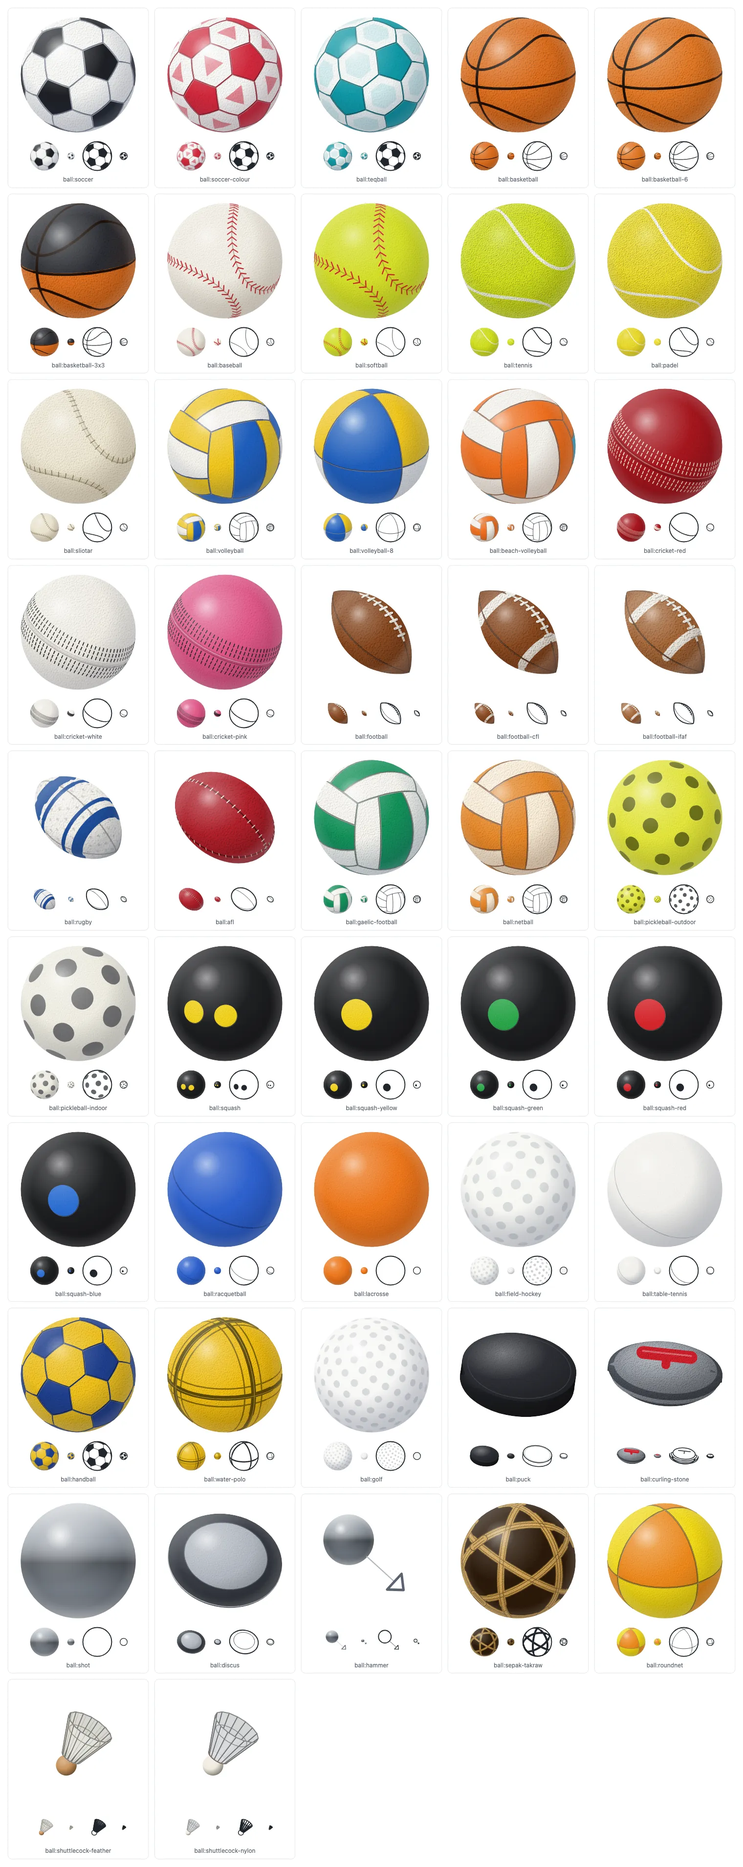
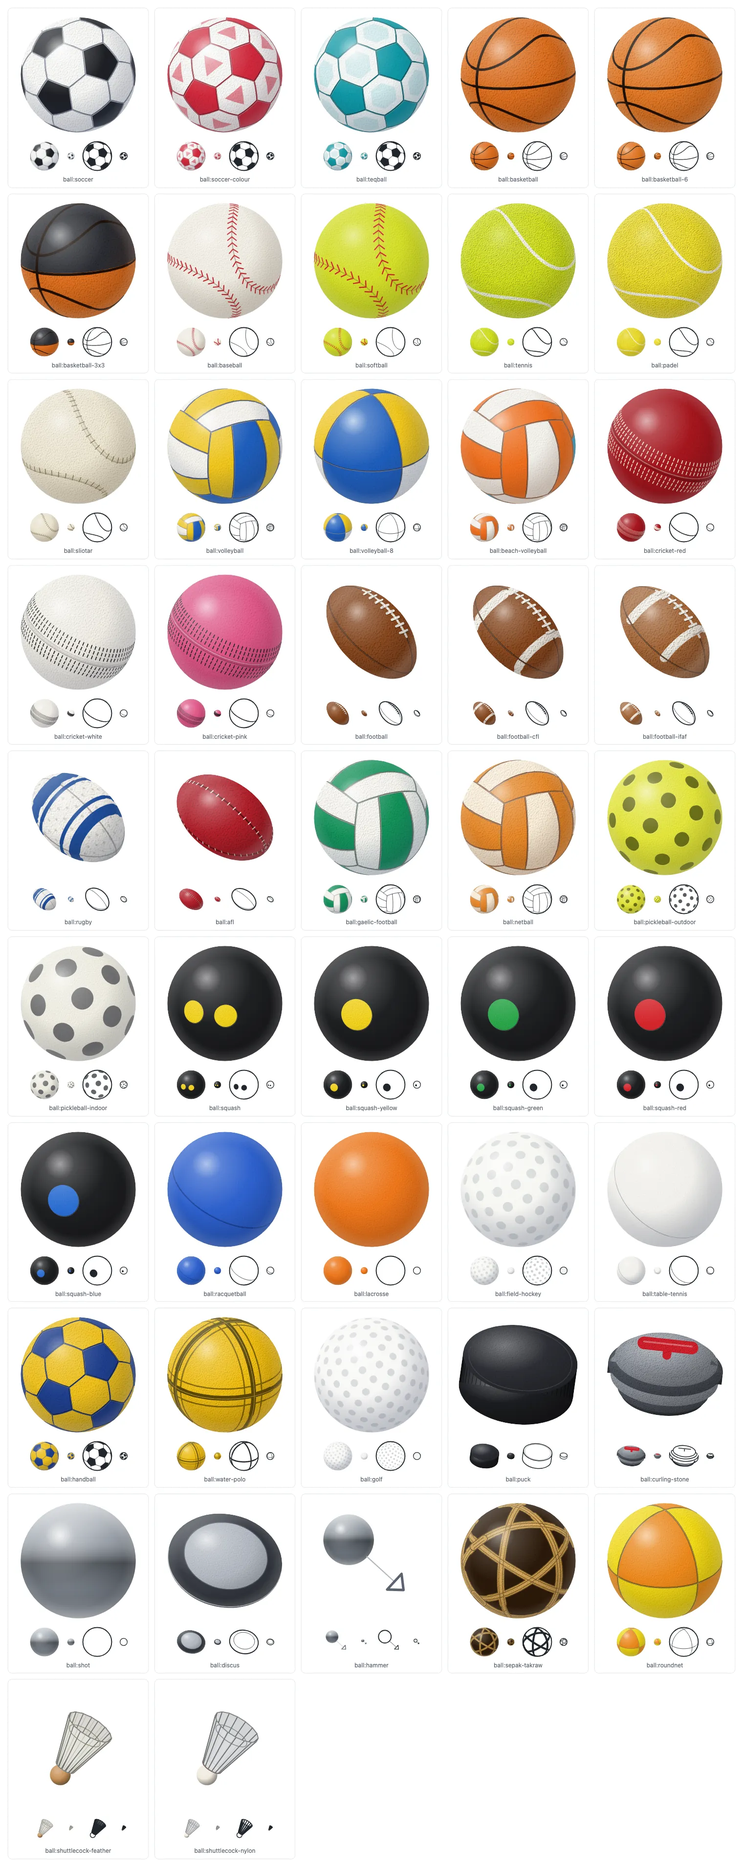
fix(ball): draw balls and implements in the rule's proportions
The puck was drawn 1:6 (thickness to diameter) where IIHF Rule 13 makes it
1:3. Measuring every sized piece edge-on found the curling stone, the feather
and nylon shuttlecocks, the discus, the three footballs, the rugby ball and
the Australian football out of proportion too. Each now takes its shape from
the rule's figures, and test/proportions.test.ts holds the drawn ratio, size
and outline to them within 2%.

diff --git a/test/measure.ts b/test/measure.ts
@@ -1,0 +1,103 @@
+// Measures a ball or an implement from the drawing itself. The piece is turned to its straight view (the default view undone, so a puck is edge-on and a rugby ball lies across the page) and drawn in a
+// 100 by 100 box; the box units are turned into millimetres the way `lineup` does it, 92 box units to `extentMm`. What is read is the drawn geometry (the clip outline of a ball, the side faces of a puck
+// or a stone, the blades of a shuttlecock), never the constants the piece was made from.
+import type { Piece, PieceSize } from "../src/emblems/ball/ball.core.ts";
+
+export interface Measured {
+  /** The middle of the drawing in the 100 by 100 box. */
+  centre: Pt;
+  /** Across the page, in millimetres. */
+  widthMm: number;
+  /** Up the page, in millimetres. */
+  heightMm: number;
+  /** The length of the outline, in millimetres, for a pointed ball (its silhouette is a polygon). */
+  outlineMm?: number;
+}
+
+type Pt = readonly [number, number];
+const numbers = (text: string): number[] => (text.match(/-?\d*\.?\d+(?:e-?\d+)?/g) ?? []).map(Number);
+/** The extent of some points and the middle of them, in box units. */
+interface Box {
+  w: number;
+  h: number;
+  cx: number;
+  cy: number;
+  outline?: number;
+}
+const bbox = (pts: readonly Pt[]): Box => {
+  const xs = pts.map((p) => p[0]), ys = pts.map((p) => p[1]);
+  const [x0, x1, y0, y1] = [Math.min(...xs), Math.max(...xs), Math.min(...ys), Math.max(...ys)];
+  return { w: x1 - x0, h: y1 - y0, cx: (x0 + x1) / 2, cy: (y0 + y1) / 2 };
+};
+
+/** The points of a path made of M and L only. */
+const polygon = (d: string): Pt[] => {
+  const n = numbers(d);
+  const out: Pt[] = [];
+  for (let i = 0; i + 1 < n.length; i += 2) out.push([n[i], n[i + 1]]);
+  return out;
+};
+
+/** The half-extents of the ellipse a path of two arcs draws: `M x y A rx ry deg 1 0 x2 y2 A ...`. */
+const ellipse = (d: string): Box => {
+  const m = /^M(-?[\d.]+) (-?[\d.]+)A(-?[\d.]+) (-?[\d.]+) (-?[\d.]+) 1 0 (-?[\d.]+) (-?[\d.]+)A/.exec(d);
+  if (m === null) throw new Error(`not an ellipse: ${d.slice(0, 80)}`);
+  const [rx, ry, deg] = [Number(m[3]), Number(m[4]), (Number(m[5]) * Math.PI) / 180];
+  // The perimeter is Ramanujan's, the arcs being an ellipse.
+  const outline = Math.PI * (3 * (rx + ry) - Math.sqrt((3 * rx + ry) * (rx + 3 * ry)));
+  return { outline, w: 2 * Math.hypot(rx * Math.cos(deg), ry * Math.sin(deg)), h: 2 * Math.hypot(rx * Math.sin(deg), ry * Math.cos(deg)), cx: (Number(m[1]) + Number(m[6])) / 2, cy: (Number(m[2]) + Number(m[7])) / 2 };
+};
+
+/** The size of a ball in box units, from the shape its drawing is clipped to: a circle, an ellipse or the hull of a pointed ball. */
+function silhouette(svg: string): Box {
+  const clip = /<clipPath id="[^"]+">(.*?)<\/clipPath>/s.exec(svg)?.[1];
+  if (clip === undefined) throw new Error("no clip outline");
+  const circle = /<circle[^>]* r="([\d.]+)"/.exec(clip);
+  if (circle !== null) return { w: 2 * Number(circle[1]), h: 2 * Number(circle[1]), cx: Number(/ cx="([\d.]+)"/.exec(clip)?.[1]), cy: Number(/ cy="([\d.]+)"/.exec(clip)?.[1]) };
+  const use = /<use href="#([^"]+)"/.exec(clip)?.[1];
+  const d = use === undefined ? /<path d="([^"]+)"/.exec(clip)?.[1] : new RegExp(`<path id="${use}" d="([^"]+)"`).exec(svg)?.[1];
+  if (d === undefined) throw new Error("no outline path");
+  if (d.includes("A")) return ellipse(d);
+  const pts = polygon(d);
+  let outline = 0;
+  for (let i = 0; i < pts.length; i++) outline += Math.hypot(pts[i][0] - pts[(i + 1) % pts.length][0], pts[i][1] - pts[(i + 1) % pts.length][1]);
+  return { ...bbox(pts), outline };
+}
+
+/** The size of a puck or a stone, from the side faces (the stack's slices; the caps are flat at an edge-on view and the handle is not part of the stone's height). */
+function stack(svg: string): Box {
+  const sides = [...svg.matchAll(/<path d="(M[^"]+Z)" fill="url\(#[^)]*s\d+\)"\/>/g)].map((m) => polygon(m[1]));
+  if (sides.length === 0) throw new Error("no side faces");
+  return bbox(sides.flat());
+}
+
+/** The size of a shuttlecock from the outlines of its feathers. */
+function blades(svg: string): Box {
+  const paths = [...svg.matchAll(/<path d="(M[^"]+Z)"/g)].map((m) => polygon(m[1]));
+  if (paths.length < 16) throw new Error(`only ${paths.length} feathers`);
+  return bbox(paths.flat());
+}
+
+interface Straight {
+  yaw: number;
+  pitch: number;
+  roll: number;
+}
+
+/** Draws a piece with its default view undone and reads its size in millimetres. */
+export function measure(piece: Piece): Measured {
+  const model = piece.model as { view: Straight; slices?: number; feathers?: number };
+  const size = piece.size as PieceSize;
+  const svg = piece.frame({ size: 100, yaw: -model.view.yaw, pitch: -model.view.pitch, roll: -model.view.roll });
+  const box = model.slices !== undefined ? stack(svg) : model.feathers !== undefined ? blades(svg) : silhouette(svg);
+  const mm = size.extentMm / 92;
+  return { centre: [box.cx, box.cy], widthMm: box.w * mm, heightMm: box.h * mm, ...(box.outline === undefined ? {} : { outlineMm: box.outline * mm }) };
+}
+
+/** What the rulebook says the straight view measures: the width, the height, and for a pointed ball the long way round. */
+export function expected(size: PieceSize): { widthMm: number; heightMm: number; outlineMm?: number } {
+  if (size.lengthMm !== undefined && size.diameterMm !== undefined) return { widthMm: size.diameterMm, heightMm: size.lengthMm };
+  if (size.lengthMm !== undefined) return { widthMm: size.lengthMm, heightMm: (size.circumferenceMm ?? NaN) / Math.PI, ...(size.longCircumferenceMm === undefined ? {} : { outlineMm: size.longCircumferenceMm }) };
+  const d = size.diameterMm ?? NaN;
+  return { widthMm: d, heightMm: size.thicknessMm ?? d };
+}

diff --git a/test/proportions.test.ts b/test/proportions.test.ts
@@ -1,0 +1,69 @@
+// The proportions of every ball and implement that has an official size, measured from the drawing. Each piece is drawn with its default view undone (a puck edge-on, a rugby ball lying across the
+// page), in a box where 92 units are its `extentMm` (the scale `lineup` draws at), and what comes out is read off the drawn geometry: the clip outline of a ball, the side faces of a puck or a stone, the
+// feathers of a shuttlecock. It is held to the rulebook's figures in `size`, so a drawing cannot drift from the rule the way a constant that only agreed with itself could (the puck was drawn one sixth as
+// thick as it is wide, not one third, while its metadata was right).
+import { describe, expect, it } from "./vitest-shim.ts";
+import { BALLS, lineup } from "../src/emblems/ball/ball.index.ts";
+import { EMBLEM_IDS, emblemInfo } from "../src/index.ts";
+import { expected, measure } from "./measure.ts";
+
+const TOLERANCE = 0.02;
+const within = (drawn: number, rule: number): boolean => Math.abs(drawn / rule - 1) <= TOLERANCE;
+const sized = BALLS.filter((b) => b.size !== undefined);
+
+describe("the proportions of the balls and implements", () => {
+  it("measures every ball and implement", () => {
+    expect(sized.length).toBe(BALLS.length);
+    expect(BALLS.length).toBeGreaterThan(46);
+  });
+
+  for (const piece of sized) {
+    const size = piece.size!;
+    it(`${piece.id}: drawn ratio and size match the rule within 2%`, () => {
+      const drawn = measure(piece);
+      const rule = expected(size);
+      const note = `${piece.id}: drawn ${drawn.widthMm.toFixed(1)} x ${drawn.heightMm.toFixed(1)} mm, rule ${rule.widthMm.toFixed(1)} x ${rule.heightMm.toFixed(1)} mm`;
+      expect(within(drawn.heightMm / drawn.widthMm, rule.heightMm / rule.widthMm), `ratio (${note})`).toBe(true);
+      expect(within(drawn.widthMm, rule.widthMm), `width (${note})`).toBe(true);
+      expect(within(drawn.heightMm, rule.heightMm), `height (${note})`).toBe(true);
+      // A pointed ball is also held to the long way round: the outline, tip to tip, is the long girth.
+      if (rule.outlineMm !== undefined) expect(within(drawn.outlineMm ?? NaN, rule.outlineMm), `outline ${drawn.outlineMm?.toFixed(0)} mm, rule ${rule.outlineMm} mm`).toBe(true);
+    });
+
+    it(`${piece.id}: its figures agree with each other`, () => {
+      // The diameter or the width across the middle is the circumference over pi.
+      if (size.circumferenceMm !== undefined && size.diameterMm !== undefined) expect(within(size.circumferenceMm / Math.PI, size.diameterMm), "circumference over pi").toBe(true);
+    });
+  }
+
+  it("draws the puck one third as thick as it is wide (IIHF Rule 13: 25.4 mm by 76.2 mm)", () => {
+    const puck = BALLS.find((b) => b.id === "ball:puck")!;
+    const m = measure(puck);
+    expect(Math.abs(m.heightMm / m.widthMm - 25.4 / 76.2) < 0.01 * (25.4 / 76.2)).toBe(true);
+  });
+
+  it("draws the curling stone's body at 114 mm over 291 mm (the handle is not part of its height)", () => {
+    const m = measure(BALLS.find((b) => b.id === "ball:curling-stone")!);
+    expect(within(m.heightMm / m.widthMm, 114 / (914 / Math.PI))).toBe(true);
+  });
+
+  it("lines up at the true scale: each drawing's width in the lineup is its millimetres", () => {
+    const ids = ["ball:golf", "ball:puck", "ball:curling-stone", "ball:football", "ball:shuttlecock-feather", "ball:basketball"];
+    const row = lineup(ids, { scale: "true", height: 400, gap: 0 });
+    // Each piece sits in a group `scale(box / 100)`.
+    const scales = [...row.matchAll(/scale\(([\d.]+)\)/g)].map((m) => Number(m[1]));
+    expect(scales.length).toBe(ids.length);
+    // A piece's box is 100 * scale px and its drawing fills 92 of the 100 units, which is `extentMm`: the same px per millimetre for every piece, or the lineup is not true.
+    const pxPerMm = ids.map((id, i) => (92 / 100) * 100 * scales[i] / BALLS.find((b) => b.id === id)!.size!.extentMm);
+    for (const v of pxPerMm) expect(Math.abs(v / pxPerMm[0] - 1) < 0.001).toBe(true);
+  });
+});
+
+describe("what claims no real size", () => {
+  it("gives a size to a ball or an implement only: not to a medal, a crest, a trophy, a pictogram, a pennant or a piece of gear", () => {
+    const withSize = EMBLEM_IDS.filter((id) => emblemInfo(id).size !== undefined);
+    expect(withSize.every((id) => id.startsWith("ball:")), `with a size: ${withSize.filter((id) => !id.startsWith("ball:")).join(", ")}`).toBe(true);
+    expect(withSize.length).toBe(BALLS.length);
+    for (const id of EMBLEM_IDS) if (!id.startsWith("ball:")) expect(emblemInfo(id).size, id).toBeUndefined();
+  });
+});

diff --git a/src/emblems/ball/ball.football.ts b/src/emblems/ball/ball.football.ts
@@ -16,19 +16,20 @@ const upperArc = (ring: V3[]): V3[] => {
 };
 
 const BROWN = "#8b4a21";
-const AXES = [1, 0.55, 0.55] as const;
+// The shape is worked out from the rule's figures (see test/proportions.test.ts): the width over the length is the girth over pi over the length, and `point` is chosen so that the outline, tip round to tip,
+// is the long girth.
 const VIEW = { yaw: -20, pitch: 35, roll: -35 };
 const MAT = { gloss: 0.5, shade: "#2a1006", grain: { f: 0.95, a: 0.42 } };
 
-function football(id: string, en: string, ja: string, size: BallDef["size"], stripes: "none" | "ring" | "top", colour: string) {
+function football(id: string, en: string, ja: string, size: BallDef["size"], shape: { width: number; point: number }, stripes: "none" | "ring" | "top", colour: string) {
   return defineBall({
     id,
     en,
     ja,
     size,
     spec: {
-      axes: AXES,
-      point: 0.85,
+      axes: [1, shape.width, shape.width],
+      point: shape.point,
       view: VIEW,
       base: colour,
       mat: MAT,
@@ -45,7 +46,8 @@ function football(id: string, en: string, ja: string, size: BallDef["size"], str
   });
 }
 
+const NFL_SHAPE = { width: 0.6044, point: 0.541 };
 const SIZE: BallDef["size"] = { extentMm: 282.6, lengthMm: 282.6, circumferenceMm: 536.58, longCircumferenceMm: 717.55, massG: [396.89, 425.24], rule: "NFL Rulebook, Rule 2 The Ball, Section 1 (Dimensions)" };
-export const BALL_FOOTBALL = /* @__PURE__ */ football("ball:football", "Football (NFL)", "アメフトボール（NFL）", SIZE, "none", BROWN);
-export const BALL_FOOTBALL_CFL = /* @__PURE__ */ football("ball:football-cfl", "Football (CFL)", "フットボール（CFL）", { extentMm: 282.6, lengthMm: 282.6, circumferenceMm: 536.58, longCircumferenceMm: 717.55, massG: [396.89, 425.24], rule: "CFL Official Playing Rules, Rule 1 Conduct of the Game, Section 2 The Ball" }, "ring", BROWN);
-export const BALL_FOOTBALL_IFAF = /* @__PURE__ */ football("ball:football-ifaf", "Football (IFAF)", "アメフトボール（IFAF）", { extentMm: 283.4, lengthMm: 283.4, circumferenceMm: 533.4, longCircumferenceMm: 714.38, massG: [396.89, 425.24], rule: "IFAF Football Rules and Interpretations 2026, Rule 1 (The Game, Field, Players and Equipment), Section 3 The Ball, Article 1 a-i", note: "The IFAF figures are in a diagram of the rules, read from the rendered page." }, "top", "#a8693a");
+export const BALL_FOOTBALL = /* @__PURE__ */ football("ball:football", "Football (NFL)", "アメフトボール（NFL）", SIZE, NFL_SHAPE, "none", BROWN);
+export const BALL_FOOTBALL_CFL = /* @__PURE__ */ football("ball:football-cfl", "Football (CFL)", "フットボール（CFL）", { extentMm: 282.6, lengthMm: 282.6, circumferenceMm: 536.58, longCircumferenceMm: 717.55, massG: [396.89, 425.24], rule: "CFL Official Playing Rules, Rule 1 Conduct of the Game, Section 2 The Ball" }, NFL_SHAPE, "ring", BROWN);
+export const BALL_FOOTBALL_IFAF = /* @__PURE__ */ football("ball:football-ifaf", "Football (IFAF)", "アメフトボール（IFAF）", { extentMm: 283.4, lengthMm: 283.4, circumferenceMm: 533.4, longCircumferenceMm: 714.38, massG: [396.89, 425.24], rule: "IFAF Football Rules and Interpretations 2026, Rule 1 (The Game, Field, Players and Equipment), Section 3 The Ball, Article 1 a-i", note: "The IFAF figures are in a diagram of the rules, read from the rendered page." }, { width: 0.599, point: 0.567 }, "top", "#a8693a");

diff --git a/src/emblems/ball/ball.curlingstone.ts b/src/emblems/ball/ball.curlingstone.ts
@@ -8,6 +8,10 @@ import { num } from "./ball.core.ts";
 const GRANITE = "#8d929a";
 const POLISHED = "#4d525b";
 const HANDLE = "#d4202c";
+// The stack's y is in units of the radius, so the half height is the height of the stone (114 mm at least) over its largest diameter (291 mm, a 914 mm circumference): 0.392, and the stone runs from -H to H. The slices
+// below are where the profile changes, as a fraction of H.
+const H = 114 / 290.9;
+const y = (t: number): number => t * H;
 
 export const BALL_CURLING_STONE = /* @__PURE__ */ defineObject({
   id: "ball:curling-stone",
@@ -19,11 +23,11 @@ export const BALL_CURLING_STONE = /* @__PURE__ */ defineObject({
   draw: (c) =>
     drawStack(c, {
       slices: [
-        { y0: -0.2, y1: -0.15, r: [0.74, 0.8], colour: POLISHED, outline: true },
-        { y0: -0.15, y1: -0.04, r: [0.8, 0.94], colour: GRANITE },
-        { y0: -0.04, y1: 0.08, r: 1, colour: POLISHED, outline: true },
-        { y0: 0.08, y1: 0.15, r: [1, 0.9], colour: GRANITE },
-        { y0: 0.15, y1: 0.2, r: [0.9, 0.78], colour: GRANITE, outline: true },
+        { y0: y(-1), y1: y(-0.75), r: [0.74, 0.8], colour: POLISHED, outline: true },
+        { y0: y(-0.75), y1: y(-0.2), r: [0.8, 0.94], colour: GRANITE },
+        { y0: y(-0.2), y1: y(0.4), r: 1, colour: POLISHED, outline: true },
+        { y0: y(0.4), y1: y(0.75), r: [1, 0.9], colour: GRANITE },
+        { y0: y(0.75), y1: y(1), r: [0.9, 0.78], colour: GRANITE, outline: true },
       ],
       top: "#9a9fa7",
       bottom: "#6a6f78",
@@ -33,8 +37,8 @@ export const BALL_CURLING_STONE = /* @__PURE__ */ defineObject({
       dish: { r: 0.74, colour: "#555a63" },
       extra: (ctx) => {
         // The handle: a post and a bar, a capsule in 3D (a thick line with round ends).
-        const post0 = ctx.at([0, 0.2, 0]), post1 = ctx.at([0, 0.34, 0]);
-        const a: V3 = [-0.42, 0.4, 0], b: V3 = [0.42, 0.4, 0];
+        const post0 = ctx.at([0, H, 0]), post1 = ctx.at([0, H + 0.14, 0]);
+        const a: V3 = [-0.42, H + 0.2, 0], b: V3 = [0.42, H + 0.2, 0];
         const p = ctx.at(a), q = ctx.at(b);
         const colour = ctx.opts.style === "line" ? "currentColor" : (ctx.opts.tint ?? HANDLE);
         const line = ctx.opts.style === "line";

diff --git a/src/emblems/ball/ball.object.ts b/src/emblems/ball/ball.object.ts
@@ -22,7 +22,7 @@ export interface ObjectContext {
   at(p: V3): [number, number, number];
 }
 
-export interface ObjectDef<Model> {
+export interface ObjectDef<Model extends object> {
   id: string;
   en: string;
   ja: string;
@@ -39,7 +39,8 @@ export interface ObjectDef<Model> {
 
 const finite = (v: number | undefined): number => (typeof v === "number" && Number.isFinite(v) ? v : 0);
 
-export function defineObject<Model>(def: ObjectDef<Model>): Piece<Model> {
+/** An object as a piece. Its `model` is the def's model with the default `view` added, so that a view of it (or a test) can turn it to any aspect from there. */
+export function defineObject<Model extends object>(def: ObjectDef<Model>): Piece<Model & { view: ObjectView }> {
   const render = (o: BallFrameOptions | undefined, turning: boolean): string => {
     const opts = resolveOptions(o);
     const rot = rotation(radians(def.view.yaw + finite(o?.yaw), 0), radians(def.view.pitch + finite(o?.pitch), 0), radians(def.view.roll + finite(o?.roll), 0));
@@ -53,5 +54,5 @@ export function defineObject<Model>(def: ObjectDef<Model>): Piece<Model> {
     const { defs, body } = def.draw({ rot, opts, turning, id, minWidth: 80 / opts.size, at });
     return wrapPiece({ title: escape(def.en), size: opts.size, theme: opts.theme, defs, body });
   };
-  return { id: def.id, en: def.en, ja: def.ja, source: "generated", kind: "ball", model: def.model, size: def.size, svg: labelled(def.en, def.ja, (o?: PieceOptions) => render(o, false)), frame: labelled(def.en, def.ja, (o?: BallFrameOptions) => render(o, true)) };
+  return { id: def.id, en: def.en, ja: def.ja, source: "generated", kind: "ball", model: { ...def.model, view: def.view }, size: def.size, svg: labelled(def.en, def.ja, (o?: PieceOptions) => render(o, false)), frame: labelled(def.en, def.ja, (o?: BallFrameOptions) => render(o, true)) };
 }

diff --git a/src/emblems/ball/ball.afl.ts b/src/emblems/ball/ball.afl.ts
@@ -10,7 +10,8 @@ export const BALL_AFL = /* @__PURE__ */ defineBall({
   ja: "オージーボール",
   size: { extentMm: 280, lengthMm: 280, circumferenceMm: 550.0, longCircumferenceMm: 725.0, rule: "Laws of Australian Football 2026, Law 4 The Football, 4.1 Specifications", note: "The Laws give the two circumferences (720-730 mm and 545-555 mm) and no length: 280 mm is the length of an ellipse of those two girths." },
   spec: {
-    axes: [1, 0.7, 0.7],
+    // An ellipsoid of the Laws' two girths: 550 mm round the middle makes it 175 mm across, 280 mm long.
+    axes: [1, 0.6253, 0.6253],
     view: { yaw: -30, pitch: 20, roll: -25 },
     base: "#b4202b",
     mat: { gloss: 0.55, shade: "#2a0408", grain: { f: 1.0, a: 0.34 } },

diff --git a/src/emblems/ball/ball.shuttlecock.ts b/src/emblems/ball/ball.shuttlecock.ts
@@ -5,12 +5,13 @@ import { type V3 } from "./ball.math.ts";
 import { blend, mix, num } from "./ball.core.ts";
 
 const FEATHERS = 16;
-// One unit is 32 mm: the skirt is 2 units across at the top, the base 0.84 across and the whole 2.06 long.
+// One unit is 32 mm (the scale below makes 92 box units 150 mm): the skirt is 2 units across at the tips (63 mm), the base 0.84 across (27 mm) and the feathers 2.05 long from the tips to the top of the base
+// (66 mm; the Law measures a feather's length that way, 62 to 70 mm).
 const ROOT_R = 0.42;
 const TIP_R = 1;
-const ROOT_Y = -0.56;
+const ROOT_Y = -1.05;
 const TIP_Y = 1.0;
-const SLOPE = 0.4;
+const SLOPE = 0.56;
 
 interface Parts {
   feather: string;

diff --git a/src/emblems/ball/ball.puck.ts b/src/emblems/ball/ball.puck.ts
@@ -1,8 +1,8 @@
-// Ice hockey puck: vulcanised black rubber, 76.2 mm across and 25.4 mm thick (so 1 : 3), with a ridged edge. Drawn as a cylinder in true 3D, so it turns.
+// Ice hockey puck: vulcanised black rubber, 76.2 mm across and 25.4 mm thick (so 1 : 3), with a ridged edge. Drawn as a cylinder in true 3D, so it turns. The stack's y is in units of the radius, so the half thickness is 12.7 / 38.1, one third.
 import { drawStack } from "./ball.stack.ts";
 import { defineObject } from "./ball.object.ts";
 
-const H = 25.4 / 76.2 / 2;
+const H = 25.4 / 76.2;
 
 export const BALL_PUCK = /* @__PURE__ */ defineObject({
   id: "ball:puck",

diff --git a/src/emblems/ball/ball.discus.ts b/src/emblems/ball/ball.discus.ts
@@ -8,7 +8,7 @@ export const BALL_DISCUS = /* @__PURE__ */ defineBall({
   ja: "円盤",
   size: { extentMm: 220, diameterMm: 220, thicknessMm: 45, massG: [2000, 2000], rule: "World Athletics Technical Rules (C2.1), Rule 34 Discus Throw - 'The discus shall conform to the following specifications'", note: "Men's discus, 219 to 221 mm across the rim and 44 to 46 mm thick at the middle; 2 kg is a minimum." },
   spec: {
-    axes: [1, 0.2, 1],
+    axes: [1, 45 / 220, 1],
     view: { yaw: 25, pitch: 52, roll: -12 },
     base: "#3b3f48",
     mat: { gloss: 0.7, shade: "#050608", grain: { f: 1.4, a: 0.12 } },

diff --git a/src/emblems/ball/ball.rugby.ts b/src/emblems/ball/ball.rugby.ts
@@ -15,8 +15,9 @@ export const BALL_RUGBY = /* @__PURE__ */ defineBall({
   ja: "ラグビーボール",
   size: { extentMm: 290.0, lengthMm: 290.0, circumferenceMm: 600.0, longCircumferenceMm: 755.0, massG: [410, 460], rule: "World Rugby Laws of the Game (Rugby Union), Law 2 The ball, clauses 1-7" },
   spec: {
-    axes: [1, 0.62, 0.62],
-    point: 0.72,
+    // Worked out from the Laws' 600 mm girth, 290 mm length and 755 mm long girth.
+    axes: [1, 0.6586, 0.6586],
+    point: 0.561,
     view: { yaw: -30, pitch: 20, roll: -30 },
     base: "#1f4e9c",
     ground: WHITE,

diff --git a/CHANGELOG.md b/CHANGELOG.md
@@ -8,7 +8,13 @@ All notable changes to this project are written here. The format follows
 
 ### Fixed
 
+- **Eleven balls and implements were drawn out of proportion to the rulebook, the puck by half.** The puck was drawn 1 : 6 (thickness to diameter) where IIHF Rule 13 makes it 1 : 3, because the half thickness was divided by two twice; the curling stone's body was 0.200 of its diameter where the rules (a 914 mm circumference, a height of at least 114 mm) make it 0.392, and its handle now stands on the taller body; the feather shuttlecocks' feathers were 50 mm long where the Law gives 62 to 70 mm (now 66 mm); the discus was 2.2% too thin; the American, Canadian and IFAF footballs were 9% too slim and the rugby ball 6% too slim, with their outlines 4 to 7% too short; the Australian football was 12% too fat. The footballs and the rugby ball now take their width from the girth (the circumference over pi) and their `point` from the long girth, and the Australian football is an ellipsoid of its two girths. Nothing in the `size` metadata changed. A new test, `test/proportions.test.ts`, draws every ball and implement edge-on, measures the drawing itself (not the constants it was made from) and holds its ratio, size and, for the pointed balls, outline to the figures in `size` within 2%; it also checks that only a ball or an implement claims a real size, and that `lineup` at the true scale gives every piece the same pixels per millimetre. The ball contact sheets in `docs/pieces` are redrawn.
+
 - **A flat thing turned the other way from a ball and a cup.** A ball rolls and a cup slides its light so that a positive yaw carries the front toward the right (and a drag to the right, or the Right arrow, is a positive yaw), but the coin turn of a medal, a crest, a pictogram, a piece of gear and a pennant showed its rim on the right, as if the front went left, so that dragging a medal to the right turned it against the hand. The rim is now on the left for a positive yaw (and on the right for a negative one), the edge that comes toward the eye, in the still and the line style alike. Only the side of the rim changes: the squeeze, the back and every angle are as before, `yaw` and `setAngles` mean the same, and `bindTurn` keeps its signs (right is more yaw, up is more pitch). A unit test holds the rim's side for every flat emblem and the ball's roll, and the demo's tests drag a ball, a cup and a medal to the right and measure which way each goes.
+
+### Changed
+
+- **The gallery is two pages, one language each.** `docs/gallery.md` (English) and `docs/gallery.ja.md` (日本語) are both written by `scripts/make-gallery.mjs`, linked to each other at the top, with the columns Id, name, kind, source and description. The Constant and Import columns are gone (the long paths made GitHub squeeze the Japanese column to one character wide, so the names stacked): each page states once that the constant is the id in capitals (`trophy:lidded-cup` becomes `TROPHY_LIDDED_CUP`) and that it is imported from `@johnmorrisdotca/dougu-sports/trophy/lidded-cup`, and the generator stops if the rule fails for any emblem. `pnpm test:readme` checks both pages and accepts the rule as naming each emblem's constant.
 
 ## [0.2.0] - 2026-10-14
 
